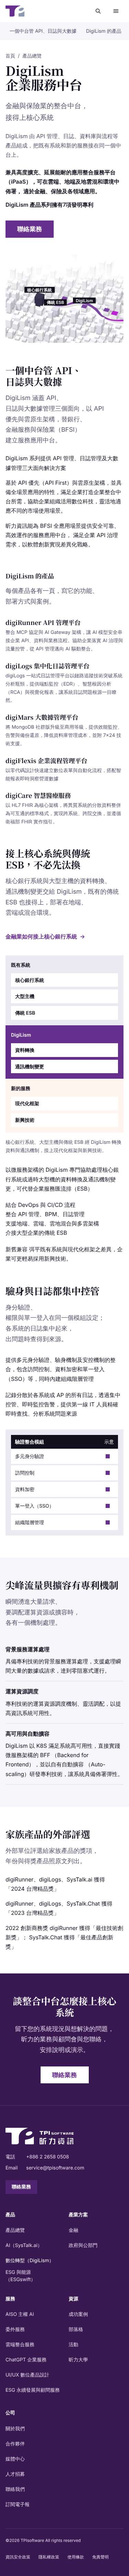
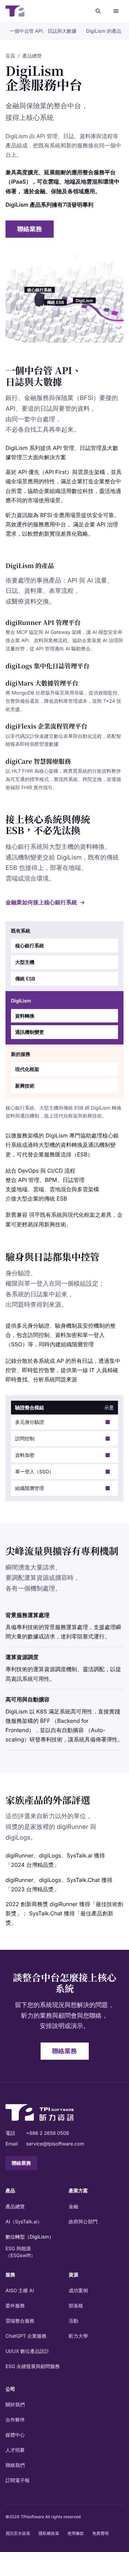
content: 階段 2 進行中：依第一次評審修正兩頁文案（#202）
Claude-Session: https://claude.ai/code/session_01XJm8Gk3uCfLDYcpJQ4ph6E

Changed region(s): [[0.0293, 0.0, 0.968, 0.9667]]

diff --git a/docs/strategy/briefs/digilism.md b/docs/strategy/briefs/digilism.md
@@ -70,7 +70,7 @@
 |---|---|---|---|---|---|---|---|---|
 | 1 | Hero：DigiLism 是什麼、給誰 | h1 沿用 `title`「DigiLism 企業服務中台」（取捨第 5 項），上方不放小標，上層「產品」由麵包屑表示。tagline 寫對象與用途：金融與保險業的整合中台，接得上核心系統。說明句寫家族由哪些產品組成（API 管理、日誌、資料庫、流程），讓第一屏讀得出昕力賣什麼。兩則證據點，一個動作「聯絡業務」 | 決策者任務「確認這是不是我要找的產品」；`DM-13`、`IT-1`；主要轉換：聯絡業務 | `DigiLism`、`DigiLism 昕力`：前幾名缺的「DigiLism 是企業服務中台／iPaaS 產品系列」類別說明（品牌名撞名，產品名要跟類別詞一起出現）；`iPaaS 平台 台灣`：可以裝在地端或混合環境 | `fact:digilism-ipaas`、`fact:digilism-patents-7` | tagline 15–30 字；說明 40–60 字；證據點 2 則 | 第一屏（`tagline`、`heroLead`、`heroPoints`、`heroCta`） | 同一個世界渲染的靜態圖（新圖，檔名與構圖由設計概念階段決定，比照 `page-finance.webp`；取代現在的 `family-dx.webp`）。HTML 標籤只用事實寫得出的詞：核心銀行系統、大型主機、傳統 ESB（`fact:digilism-protocol-integration`、`fact:digilism-system-integration`）、DigiLism。不載 3D |
 | 2 | API、日誌與大數據管理，組成整合中台 | 家族涵蓋的三個面向；基於 API 優先與雲原生架構；為 BFSI 全應用場景提供服務應用中台。「BFSI」第一次出現時在表述裡寫出是銀行、金融服務與保險（`DM-13` 寫法） | 決策者任務「了解產品與方案」；`DM-13` | `企業服務中台`：前幾名缺的「中台實際包含哪些模組」、金融與保險的使用情境；`iPaaS 平台 台灣`：金融、保險的適用情境；`DigiLism`：類別說明 | `fact:digilism-solution-areas`、`fact:digilism-api-first`、`fact:digilism-bfsi` | 說明句 30–50 字；事實 3 則 | 主張與原文（`claim`） | 無 |
-| 3 | DigiLism 的產品 | 一列一個子頁：節點名稱、一句、連結。一句用家族頁現站產品卡的原文：digiRunner、digiMars、digiFlexis、digiCare 各一則；digiRunner 那一列放卡片原文的前後兩句（AI Gateway 與 MCP，AI 治理與流量控管），讓 `IT-6` 在家族頁有一處對應。digiLogs 只寫節點名稱，那一句用 digiLogs 產品頁自己的 description（`DM-13` 寫法，「待確認」第 1 項）。互動式健康管理服務平台是否列出見「待確認」第 3 項 | 決策者任務「了解產品與方案」「往下看單一產品」；`DM-13`、`IT-6` | `DigiLism 昕力`：前幾名缺的「底下有哪些產品」 | `fact:digilism-family-digirunner`、`fact:digilism-family-digirunner-ai`、`fact:digilism-family-digimars`、`fact:digilism-family-digiflexis`、`fact:digilism-family-digicare` | 5 列，每列照原文 | 索引列（子頁卡片，需要「schema 缺口」第 1 列的欄位） | 無縮圖 |
+| 3 | DigiLism 的產品 | 一列一個子頁：節點名稱、一句、連結。一句用家族頁現站產品卡的原文：digiRunner、digiMars、digiFlexis、digiCare 各一則；digiRunner 那一列放卡片原文的前後兩句（AI Gateway 與 MCP，AI 治理與流量控管），讓 `IT-6` 在家族頁有一處對應。digiLogs 只寫節點名稱，不放一句（`DM-13` 寫法，「待確認」第 1 項；#202 評審指出 digiLogs 頁的 description 不是事實，又有「一站式」，所以不借用）。互動式健康管理服務平台是否列出見「待確認」第 3 項 | 決策者任務「了解產品與方案」「往下看單一產品」；`DM-13`、`IT-6` | `DigiLism 昕力`：前幾名缺的「底下有哪些產品」 | `fact:digilism-family-digirunner`、`fact:digilism-family-digirunner-ai`、`fact:digilism-family-digimars`、`fact:digilism-family-digiflexis`、`fact:digilism-family-digicare` | 5 列，每列照原文 | 索引列（子頁卡片，需要「schema 缺口」第 1 列的欄位） | 無縮圖 |
 | 4 | 接上核心系統與傳統 ESB，不必先汰換 | 核心銀行系統與過時大型機的資料轉換、通訊機制變更，可代替 ESB；介接大型企業的傳統 ESB，支援地端、雲端、雲地混合與多雲；弭平既有系統與現代化框架的差異 | IT 主管任務「確認接得上核心系統」；`IT-4`、`IT-1` | `ESB 替代 微服務 架構`：前幾名缺的中文內容、核心銀行系統與大型主機的資料與協定轉換；`銀行 核心系統 現代化 大型主機 微服務`：處理大型主機資料轉換與通訊機制的中介產品、與傳統 ESB 的介接（次要，主要在金融頁）；`iPaaS 平台 台灣`：接傳統 ESB 的做法 | `fact:digilism-protocol-integration`、`fact:digilism-system-integration`、`fact:digilism-compatibility` | 說明句 40–60 字；圖下事實 3 則 | 接點圖（`junction`） | SVG：左欄核心銀行系統、過時大型機、傳統 ESB（中性色，`fact:digilism-protocol-integration`、`fact:digilism-system-integration`）；中欄 DigiLism 的資料轉換與通訊機制變更（紫）；右欄現代化框架與新興技術（`fact:digilism-compatibility` 的用詞）。部署環境（地端、雲端、雲地混合、多雲）用圖下事實寫，不畫進圖 |
 | 5 | 驗身、單一登入與日誌集中控管 | 多元身分驗證、訪問控制、資料加密、單一登入與組織階層管理整合在一起；各系統的日誌集中控管、即時監控告警，IT 人員查得到問題來源 | IT 主管任務「確認資安過得了關、上線後維運得動」；`IT-2`、`IT-5` | `企業服務中台`：前幾名缺的中台模組（身分驗證、日誌）；`銀行 核心系統 現代化 大型主機 微服務`：維運端的日誌集中與追查 | `fact:digilism-auth-module`、`fact:digilism-log-audit` | 說明句 30–50 字；片段旁事實 2 則 | 介面片段（`ui`） | 介面片段 1：驗證整合模組的設定面板，項目是多元身分驗證、訪問控制、資料加密、單一登入（SSO）、組織階層管理（`fact:digilism-auth-module`）。只畫項目名稱與開關狀態 |
 | 6 | 尖峰流量與擴容有專利機制 | 一列一個機制：專利的背景服務運算處理（瞬間大量請求）、專利的運算資源調度、以 K8S 做高可用與自有的自動擴容專利。不寫 100% SLA（`IT-3` 寫法：DigiLism 的高可用只用這三筆） | IT 主管任務「確認上線後撐得住」；`IT-3` | `ESB 替代 微服務 架構`：ESB 成為瓶頸與單點故障、可替代 ESB 的產品的高可用做法；`中台 是什麼 業務中台 技術中台`：技術中台的微服務框架、前幾名缺的專利 | `fact:digilism-patent-background-processing`、`fact:digilism-patent-resource-scheduling`、`fact:digilism-microservice-framework` | 說明句 20–40 字；表 3 列 | 規格表（`spec`），`fill: subtle` | 段落圖（緞帶世界，新圖，h2 旁的最後 4 欄，375 寬不顯示） |
@@ -183,6 +183,7 @@ hub schema（`src/content.config.ts`）已有 `heroLead`、`heroPoints`、`heroC
 |---|---|---|---|
 | 3 | 子頁卡片的一句固定讀各 offering 的 description，放不進家族頁的產品卡原文；也不能選擇不列哪個子頁（互動式健康管理服務平台，「待確認」第 3 項） | `children`：子頁卡片的順序與一句 | `{ node: string; body?: string }[]`，`node` 限本 hub 的子節點，`body` 是事實原文，沒填時用該 offering 的 description（digiLogs 那一列不填）。沒有這個欄位時照現在的行為列出全部子節點。`hasPart` 不受影響，仍列全部子節點（`briefs/finance.md`「schema 缺口」JSON-LD 那一列的規則） |
 | 3 | 替代做法 | 不加 `children`，改在第 2 段（`claim`）加 `index`，形狀同 `ui` 的 `index`（`{ body?: string; node: string }[]`） | 選哪個由主 session 依 `HubTemplate` 決定；brief 只要求第 3 段的一句放得下家族頁的原文 |
+| 3 | #202 的做法 | 不加 `children`：第 3 段用既有的 `index` 版型（每列 `node` 加選填 `body`），digiLogs 那一列不填 `body`、只有節點名；不列的子頁用 hub 的 `omitParts`（互動式健康管理服務平台），`hasPart` 仍列全部子節點 | — |
 | 全頁 | 內容檔沒有 `facts` 欄位 | 補 `facts`（共用欄位已有） | — |
 | 全頁 | `highlights` 不再使用 | 不是 schema 缺口：改用 `sections`，刪掉 `highlights` | — |
 | 4 | `fact:digilism-system-integration` 是一串名詞 | 不是 schema 缺口：照「照原文列清單的段落」拆 `text` | — |

diff --git a/docs/strategy/briefs/greenswift.md b/docs/strategy/briefs/greenswift.md
@@ -67,7 +67,7 @@
 | 4 | 自動計算，產出盤查清冊與申報格式 | 已整理好的資料從介面匯入並上傳佐證；系統內建計算公式，產出年度總排放量、活動數據總表與盤查清冊，可一鍵下載環保署登錄平台的表單格式，AI 一鍵生成溫室氣體報告，報告依 ISO 14064-1:2018 寫出數據鑑別與計算方法；過往年度的資料可以帶入新年度。目前不直接串接 ERP、HR 系統，這句照原文寫在圖下，不藏起來（取捨第 8 項） | IT 主管任務「確認跟既有系統怎麼接」；決策者任務「確認產出什麼」；`DM-7` | `ISO 14064-1 碳盤查 步驟`：盤查清冊的產出內容；`溫室氣體排放量 申報 環境部 登錄平台 表單`（結果不能用，但 `fact:greenswift-epa-format` 對應這組）；`碳盤查 平台 系統 推薦`：能否直接匯出環保署登錄格式、不能做什麼（ERP 整合） | `fact:greenswift-no-erp-integration`、`fact:greenswift-epa-format`、`fact:greenswift-inventory-output`、`fact:greenswift-ai-report`、`fact:greenswift-report-method`、`fact:greenswift-file-center` | 說明句 40–60 字；圖下事實 6 則，兩欄 | 接點圖（`junction`） | SVG：左欄是企業已整理好的資料與佐證資料（中性色，用 `fact:greenswift-no-erp-integration` 的用詞，不畫 ERP），中欄是 GreenSwift 的碳排計算（紫），右欄是產出：環保署登錄平台表單格式、盤查清冊、溫室氣體報告（`fact:greenswift-epa-format`、`fact:greenswift-inventory-output`、`fact:greenswift-ai-report`） |
 | 5 | 各部門在同一個平台分工 | 權責分工、系統主動提醒，各部門協作完成數據收集；內部人員與外部顧問在雲端共同編輯指標文稿；主要管理者與子管理者帳號，使用者數量與組織邊界數量都沒有上限 | IT 主管任務「確認帳號與權限怎麼設」；決策者任務「確認跨部門收得到數據」；`DM-12` | `碳盤查 平台 系統 推薦`：前幾名缺的帳號與組織邊界數量限制 | `fact:greenswift-collaboration`、`fact:greenswift-cloud-collaboration`、`fact:greenswift-accounts` | 說明句 30–50 字；片段旁事實 3 則 | 介面片段（`ui`，`flip: true`） | 介面片段 2：帳號管理面板，項目是主要管理者帳號、子管理者帳號、使用者數量「不限」、組織邊界數量「不限」（`fact:greenswift-accounts`）。不畫人名與部門名稱 |
 | 6 | 資安、可用性與語言 | 零信任架構、研發過程符合 ISO 27001；雲端 SaaS 的可用性與它依據的 Amazon SLA 條件同一格；支援繁中與英文，導入後有英文支援 | IT 主管任務「確認資安過得了關、上線後維運得動」；`IT-2` | `GreenSwift 碳盤查`：前幾名缺的可用性 SLA | `fact:greenswift-zero-trust-iso27001`、`fact:greenswift-sla-99`、`fact:greenswift-languages` | 說明句 20–40 字；表 3 列 | 規格表（`spec`），`fill: subtle` | 段落圖（緞帶世界，新圖），和第 2 段不相鄰 |
-| 7 | 顧問公司登入同一個平台輔導 | 顧問可以登入，替輔導的客戶線上盤點；同一顧問公司內的顧問帳號可分權，非共同輔導的資料不互通；專業輔導由合作的顧問公司執行，GreenSwift 提供操作教學影片。不寫成昕力提供碳盤查輔導（`DM-12` 寫法，取捨第 4 項） | 決策者任務「確認輔導怎麼安排」；IT 主管任務「確認外部人員的資料權限」；`DM-12` | `碳盤查 平台 系統 推薦`：外部顧問能不能一起在平台上作業；`碳盤查 費用 中小企業`：顧問輔導與平台怎麼分工 | `fact:greenswift-consultant-accounts`、`fact:greenswift-consultant-access`、`fact:greenswift-consulting-partners`、`fact:greenswift-cloud-consultants` | 說明句 30–50 字；片段旁事實 4 則 | 介面片段（`ui`） | 介面片段 3：一個顧問帳號的權限設定，兩列「所輔導客戶的資料：可查看」「非共同輔導的資料：不互通」（`fact:greenswift-consultant-access`）。不畫顧問與客戶的名稱 |
+| 7 | 顧問公司登入同一個平台輔導 | 顧問可以登入，替輔導的客戶線上盤點；同一顧問公司內的顧問帳號可分權，非共同輔導的資料不互通；專業輔導由合作的顧問公司執行，GreenSwift 提供操作教學影片。不寫成昕力提供碳盤查輔導（`DM-12` 寫法，取捨第 4 項） | 決策者任務「確認輔導怎麼安排」；IT 主管任務「確認外部人員的資料權限」；`DM-12` | `碳盤查 平台 系統 推薦`：外部顧問能不能一起在平台上作業；`碳盤查 費用 中小企業`：顧問輔導與平台怎麼分工 | `fact:greenswift-consultant-accounts`、`fact:greenswift-consultant-access`、`fact:greenswift-consulting-partners` | 說明句 30–50 字；片段旁事實 3 則（#202 評審後拿掉 `fact:greenswift-cloud-consultants`：從原句中間截出，單獨成一則會讀成 GreenSwift 提供 ESG 顧問團隊） | 介面片段（`ui`） | 介面片段 3：一個顧問帳號的權限設定，兩列「所輔導客戶的資料：可查看」「非共同輔導的資料：不互通」（`fact:greenswift-consultant-access`）。不畫顧問與客戶的名稱 |
 | 8 | 案例 | 一則一列（`design-principles.md`「案例列」）：客戶名「和鼎隆建築」、作業照新聞標題原文、連到新聞 580。事實庫沒有成果，成果那一行不放（`DM-7` 寫法，「待確認」第 5 項） | 決策者任務「找成功案例」；`DM-7` | `GreenSwift 碳盤查`：前幾名提到的和鼎案例 | `fact:client-hedinglong`、`fact:greenswift-case-hedinglong` | 1 列，照原文 | 案例列（`caseNotes`） | 沒有片段：案例只有標題，畫不出作業的介面 |
 | 9 | 先試用再決定 | 註冊後一個工作日內審核，審核通過後試用 30 天，到期自動關閉帳號權限；可以用 Gmail 登入，試用期間所有功能都能用，下載報告書時有浮水印。條件緊貼在「試用」旁，同一處讀完，不寫「免費」（`IT-7` 寫法）。動作連到試用申請頁 | IT 主管任務「決定要不要先試用」；`IT-7`；次要轉換：試用 | `GreenSwift 碳盤查`：前幾名缺的試用方式與審核時間；`碳盤查 平台 系統 推薦`：試用方式的比較；`碳盤查 費用 中小企業`：試用方式 | `fact:greenswift-review-one-day`、`fact:greenswift-trial-30-days`、`fact:greenswift-trial` | 說明句 20–40 字；條件 3 則 | 色帶，淺紫（`band`） | 介面片段 4：試用申請的狀態列，依序是註冊、審核、試用中、到期關閉帳號權限（狀態名稱照 `fact:greenswift-review-one-day`、`fact:greenswift-trial-30-days`），條件原文緊貼在旁 |
 | 10 | 相關文章 | 給要深入碳足跡與 CBAM 計算的讀者。模板依 `blog.relatedOfferings` 反查，順序照新到舊，不寫文案 | 決策者任務「了解產品與方案」的前置知識 | `產品碳足跡 ISO 14067 怎麼計算`、`CBAM 申報 怎麼做 台灣 出口商`：由文章承接，產品頁連過去（`search-intent.md`「對應到頁面」） | 無（文章的事實由文章管） | 3 則 | 索引列（`relatedPosts` 反查） | 文章自己的封面縮圖 |

diff --git a/src/content/offering/zh-TW/greenswift.md b/src/content/offering/zh-TW/greenswift.md
@@ -11,7 +11,7 @@ kind: product
 # brief 第 1 段: what it is for, the three plans in one place. Wording, no facts
 tagline: 碳盤查、碳足跡與 CBAM 申報，在同一個平台
 # brief 第 1 段的說明句: how it works (standards built in, departments and consultants together)
-heroLead: 盤查標準與係數已經內建，企業各部門與合作的顧問在同一個平台收數據、算排放、出報告。
+heroLead: 盤查標準與係數已經內建，負責碳盤查的部門與合作的顧問一起收數據、算排放、出報告。
 heroPoints:
   - "通過國際查證機構核發AUP認證"
   - "可整合七大溫室氣體排放"
@@ -31,7 +31,7 @@ sections:
     id: plans
     fill: subtle
     heading: 碳盤查、CBAM 與碳足跡，各有方案
-    body: 組織的碳盤查、出口要的 CBAM 數據和產品碳足跡各有方案，數據放在同一個平台，不必分開找工具。
+    body: 組織的碳盤查、出口要的 CBAM 數據和產品碳足跡各有方案，數據不必分散在不同工具裡。
     image: ../../../assets/design/sec-planning.webp
     # A row is a plan: its scope (fact:greenswift-scope) leads, what the plan has follows
     rows:
@@ -61,8 +61,8 @@ sections:
             無產品碳足跡盤查報告數量限制
   - layout: ui
     id: standards
-    heading: 盤查標準與步驟已內建
-    body: 系統照六個步驟帶著做，GHG Protocol 和 ISO 14064-1:2018 可以切換，係數會跟著 IPCC 更新，不必自己查表。
+    heading: ISO 14064-1 與 GHG Protocol 的盤查步驟已內建
+    body: 系統照六個步驟帶著做，兩種標準可以切換，係數會跟著 IPCC 更新，不必自己查表。
     fragment:
       title: 盤查流程
       rows:
@@ -78,7 +78,7 @@ sections:
           value: 未開始
         - label: 查證作業
           value: 未開始
-        - label: 盤查標準
+        - label: 標準
           value: GHG Protocol／ISO 14064-1:2018
     items:
       - body: "以六大步驟系統化管理類別一至類別四溫室氣體排放源盤查流程"
@@ -91,7 +91,7 @@ sections:
   - layout: junction
     id: output
     heading: 自動計算，產出清冊與申報格式
-    body: 整理好的資料從介面匯入，系統算出排放量，產出盤查清冊、申報格式與溫室氣體報告。目前不直接串接 ERP、HR 系統。
+    body: 不必先改動現有系統，資料整理好就能開始算排放，年度之間的資料也接得起來。目前不直接串接 ERP、HR 系統。
     diagram:
       caption: 企業已整理好的資料與佐證資料從介面匯入，系統內建的公式計算碳排放量，產出環保署登錄平台的表單格式、盤查清冊與溫室氣體報告。
       columns:
@@ -114,14 +114,14 @@ sections:
       - body: "雖然目前不支援直接與 ERP、HR 系統或其他模組的整合，但如果貴公司已經整理好相關資料，可以直接透過 GreenSwift 的介面進行資料匯入並上傳佐證資料"
       - body: "系統內建碳排計算公式 ，自動計算完整碳排放量，並可一鍵下載為符合環保署登錄平台之表單格式(3.0.0)"
       - body: "在完成全廠活動數據的收集與計算後，我們將得到年度總排放量，單位為每公噸二氧化碳當量（tCO2e）。此外，我們會整理所有活動數據，形成活動數據總表，並將計算結果以盤查清冊的形式呈現。"
-      - body: "AI 協力 一鍵生成溫室氣體報告"
+      - body: "AI 協力，一鍵生成溫室氣體報告"
       - body: "根據ISO 14064-1:2018規範，我們會在溫室氣體盤查報告中詳細描述數據鑑別、收集過程及計算方法。報告還包括數據品質評分表與不確定性分析等內容。"
       - body: "透過一站整合盤查數據，不僅過往所有資料得以方便查詢及管理，新年度更可自行帶入過往資料，不須擔心人員變動造成管理不善等問題，讓資料具連續性，確保每次盤查順利完成。"
   - layout: ui
     id: departments
     flip: true
-    heading: 各部門在同一個平台分工
-    body: 各部門照權責收數據，系統主動提醒；內部人員和外部顧問在雲端編同一份文稿，帳號與組織邊界不設上限。
+    heading: 部門分工收數據，帳號與組織邊界不設上限
+    body: 各部門照權責收數據，系統會主動提醒；內部人員和外部顧問在雲端編同一份文稿。
     fragment:
       title: 帳號管理
       rows:
@@ -141,7 +141,7 @@ sections:
     id: security
     fill: subtle
     heading: 資安、可用性與語言
-    body: 資安單位上線前會問的三件事：架構、可用性，以及系統用哪些語言。
+    body: 導入前要確認的三件事：資安架構、服務可用性，以及介面與支援用的語言。
     image: ../../../assets/design/sec-identity.webp
     rows:
       - label: 資安
@@ -152,7 +152,7 @@ sections:
         values: ["系統支援繁體中文與英文兩種語言。系統導入後，如有操作上的問題，我們提供英文支援服務。"]
   - layout: ui
     id: consultants
-    heading: 顧問公司登入同一個平台輔導
+    heading: 合作的顧問公司登入平台輔導
     body: 合作的顧問公司可以登入平台，替輔導的客戶線上盤點；顧問帳號可以分權，沒有共同輔導的資料彼此看不到。
     fragment:
       title: 顧問帳號權限
@@ -167,7 +167,6 @@ sections:
       - body: "是的，GreenSwift 支援顧問公司使用。顧問可以登入系統，針對所輔導的客戶進行線上盤點和協助。"
       - body: "顧問能夠查看所輔導客戶的所有資料，同一顧問公司內的不同顧問帳號可以根據需要進行分權設定，確保資料的安全與私密性，除非是共同輔導，否則彼此間的資料無法互通。"
       - body: "GreenSwift 提供操作教學影片，專業的碳盤查輔導則由合作的顧問公司執行。GreenSwift 與多家顧問機構合作"
-      - body: "GreenSwift 為您於雲端整合碳數據、ESG 顧問團隊"
     # A sentence of its own, apart from the partner consultants (brief 取捨第 4 項)
     link:
       label: 昕力的 ESG 永續發展與顧問服務
@@ -175,7 +174,7 @@ sections:
   - layout: band
     id: trial
     heading: 先試用再決定
-    body: 註冊後經過審核就能試用全部功能，期限與限制都寫在這裡。
+    body: 審核通過就能用全部功能試用，先在自己的資料上跑過一輪再決定。
     items:
       - body: "註冊成功後，您的申請將於一個工作日進行審核。"
       - body: "審核通過後即開始30天試用，試用到期將自動關閉帳號權限。"
@@ -228,7 +227,6 @@ facts:
   - greenswift-consultant-accounts
   - greenswift-consultant-access
   - greenswift-consulting-partners
-  - greenswift-cloud-consultants
   - client-hedinglong
   - greenswift-case-hedinglong
   - greenswift-review-one-day

diff --git a/.claude/skills/design-system/SKILL.md b/.claude/skills/design-system/SKILL.md
@@ -152,7 +152,7 @@ description: 撰寫或修改任何樣式、元件時使用。說明亮暗雙 sur
 | `InPageNav` | 頁內錨點列 | 只列頁面有輸出的區塊；和頁面用一階底色分開，不用下框線（#187）；`stick="header"` 在 `--bp-lg-up` 固定在 header 下方，手機隨頁面捲走；固定在 header 下方時跟 header 算同一條 bar，紫色段落經過時由 `SiteHeader` 的 script 一起換成深色（#179）；`stick="top"` 給沒有 header 的頁面；選項多時在列內橫向捲動 |
 | `Faq` | 常見問題 | 原生 `<details>`，零 JS |
 | `FactRow` | 論點與撐住它的事實 | `design-principles.md`「內頁的版型」的「主張與原文」：左邊 `SectionHeading`（`level`、`description`）加選填的 `link`（兩個連結時用 `links`，#202），右邊是 default slot 的 `<li>` 事實清單，用間距分開，沒有線與編號（#187）；64rem 以上照 12 欄並排（1–5、7–12） |
-| `PageSections` | offering、hub 依 brief 排的段落 | 讀內容檔的 `sections`（`src/content.config.ts` 的 `pageSection`），每段一個 `Surface`，照 `layout` 用 `FactRow`（claim）、`JunctionDiagram`（junction）、`UiFragment`（ui，`flip` 左右對調，`itemsBelow` 把事實排到下方兩欄，`index` 接 `IndexList`）、`SpecTable`（spec）、`Timeline`（timeline，可接對應表）、`CaseList`（results）、淺紫色帶（band）或次要標題在左、`IndexList` 在右（index，#200）；版型依據是 `design-principles.md`「內頁的版型」，相鄰兩段不用同一種（#187）；有 `id` 的段落是 `InPageNav` 的錨點；段落的 `image`（緞帶世界的段落圖）放在 spec 的 h2 旁（最後 4 欄）或沒有介面片段的 band 的圖位，375 寬不顯示；ui 段的事實超過 3 則時排到片段下方兩欄；段落的 `link` 可以連到節點、新聞或站外頁，也可以是兩個連結；index 段沒寫 `body` 的列用該頁的 description（#202） |
+| `PageSections` | offering、hub 依 brief 排的段落 | 讀內容檔的 `sections`（`src/content.config.ts` 的 `pageSection`），每段一個 `Surface`，照 `layout` 用 `FactRow`（claim）、`JunctionDiagram`（junction）、`UiFragment`（ui，`flip` 左右對調，`itemsBelow` 把事實排到下方兩欄，`index` 接 `IndexList`）、`SpecTable`（spec）、`Timeline`（timeline，可接對應表）、`CaseList`（results）、淺紫色帶（band）或次要標題在左、`IndexList` 在右（index，#200）；版型依據是 `design-principles.md`「內頁的版型」，相鄰兩段不用同一種（#187）；有 `id` 的段落是 `InPageNav` 的錨點；段落的 `image`（緞帶世界的段落圖）放在 spec 的 h2 旁（最後 4 欄）或沒有介面片段的 band 的圖位，375 寬不顯示；ui 段的事實超過 3 則時排到片段下方兩欄；段落的 `link` 可以連到節點、新聞或站外頁，也可以是兩個連結（#202） |
 | `JunctionDiagram` | 接點圖 | 三欄：既有系統（中性）、產品（紫）、新的服務（橘），欄位相鄰用平塗色塊表示接上，不畫細線箭頭；節點可標 `down`（故障）、`standby`（待命），高可用架構用；HTML 畫，文字是事實的用詞；`caption` 一句話說圖在講什麼；窄螢幕三欄上下排 |
 | `UiFragment` | 介面片段 | HTML 畫的產品畫面局部，標「示意」、帶 `data-ui`；只畫事實寫得出的面板名稱、分頁、設定項目與狀態（`state`：on、off、down、next，on、off、down 另有給螢幕閱讀器的文字，不只靠顏色）；`words` 傳頁面的 `strings.layout`（「示意」與狀態名稱），不畫筆數、時間、曲線、客戶名單；同一頁的片段用同一個外框 |
 | `FactText` | 一則事實原文 | 拆成一行一項、5 行以上時排成兩欄清單（第一行以冒號結尾時當導言），否則是保留換行的段落；`emphasis="percentages"` 加粗成果數字；`inline` 讓單段文字不包 `<p>`（表格的格子）。`PageSections` 與 `SpecTable` 共用（#200） |

diff --git a/src/content/hub/zh-TW/family-dx.md b/src/content/hub/zh-TW/family-dx.md
@@ -27,17 +27,17 @@ sections:
   - layout: claim
     id: areas
     heading: 一個中台管 API、日誌與大數據
-    body: DigiLism 涵蓋 API、日誌與大數據管理三個面向，以 API 優先與雲原生架構，替銀行、金融服務與保險業（BFSI）建立服務應用中台。
+    body: 銀行、金融服務與保險業（BFSI）要接的 API、要追的日誌與要管的資料，由同一套中台處理，不必各自找工具再串起來。
     items:
       - body: "DigiLism 系列提供 API 管理、日誌管理及大數據管理三大面向解決方案"
       - body: "基於 API 優先（API First）與雲原生架構，並具備全場景應用的特性，滿足企業打造企業整合中台所需，協助企業組織活用數位科技，靈活地適應不同的市場使用場景。"
       - body: "昕力資訊能為 BFSI 全應用場景提供安全可靠、高效運作的服務應用中台， 滿足企業 API 治理需求，以軟體創新實現差異化戰略。"
-  # The family page's product cards (brief 取捨第 3 項); digiLogs' card says 業界唯一, so its row reads
-  # its own page's description (「待確認」第 1 項)
+  # The family page's product cards (brief 取捨第 3 項); digiLogs' card says 業界唯一 (「待確認」第 1 項)
+  # and its page's description is not a fact, so its row has the name only (#202 評審)
   - layout: index
     id: products
     heading: DigiLism 的產品
-    body: 每個產品各有一頁，寫它的功能、部署方式與案例。
+    body: 依要處理的事挑產品：API 與 AI 流量、日誌、資料庫、表單流程，或醫療資料交換。
     items:
       - node: digirunner
         body: "整合 MCP 協定與 AI Gateway 架構，讓 AI 模型安全串接企業 API、資料與業務流程。協助企業落實 AI 治理與流量控管，從 API 管理邁向 AI 驅動整合。"
@@ -119,7 +119,7 @@ sections:
   - layout: claim
     id: awards
     heading: 家族產品的外部評選
-    body: 外部單位評選給家族產品的獎項，年份與得獎產品照原文列出。
+    body: 這些評選來自昕力以外的單位，得獎的是家族裡的 digiRunner 與 digiLogs。
     items:
       - body: "digiRunner、digiLogs、SysTalk.ai 獲得「2024 台灣精品獎」"
       - body: "digiRunner、digiLogs、SysTalk.Chat 獲得「2023 台灣精品獎」"

diff --git a/.claude/progress/202.md b/.claude/progress/202.md
@@ -23,6 +23,8 @@
 - 共用元件的問題（狀態方塊無字、hero 證據點整句加粗、index 段左欄空白、案例列單薄、深紫 footer）寫進 `evaluation.md`「還不夠好的地方」，不在本 PR 改
 - 修完重截圖、新的 `reviewer` 重評，第一次評審移到 `docs/strategy/evaluation/b1-202-attempt1/`
 
+階段 2 進行中：上述修正已做完（兩份 brief 同步：GreenSwift 第 7 段拿掉 cloud-consultants、DigiLism 第 3 段 digiLogs 只寫名稱與 schema 缺口的 #202 做法），第一次評審已移到 `b1-202-attempt1/{greenswift,digilism}-1.md`，build 與檢查通過，素材重截，兩個新的 `reviewer` 重評中。重評檔要存成 `docs/strategy/evaluation/reviews/b1-new-{greenswift,digilism}.md`（`reviewer` 回覆整份 Markdown，從 agent 輸出取最長的 `# 評審：` 字串存檔）。
+
 已確認（2026-11-06）：試用網址是正式入口；interactivehealth 維持不列；取字檔不重跑；標題斷行照詞平均分配。
 
 CI：`e73c199` 的 baseline 由 `ab552fc` 那次 push 比對，結果待確認。
